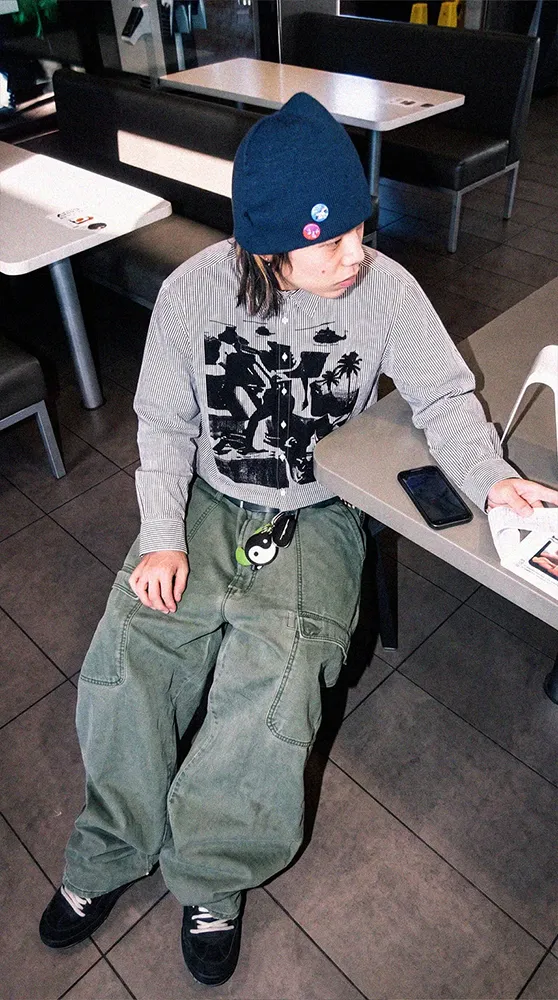
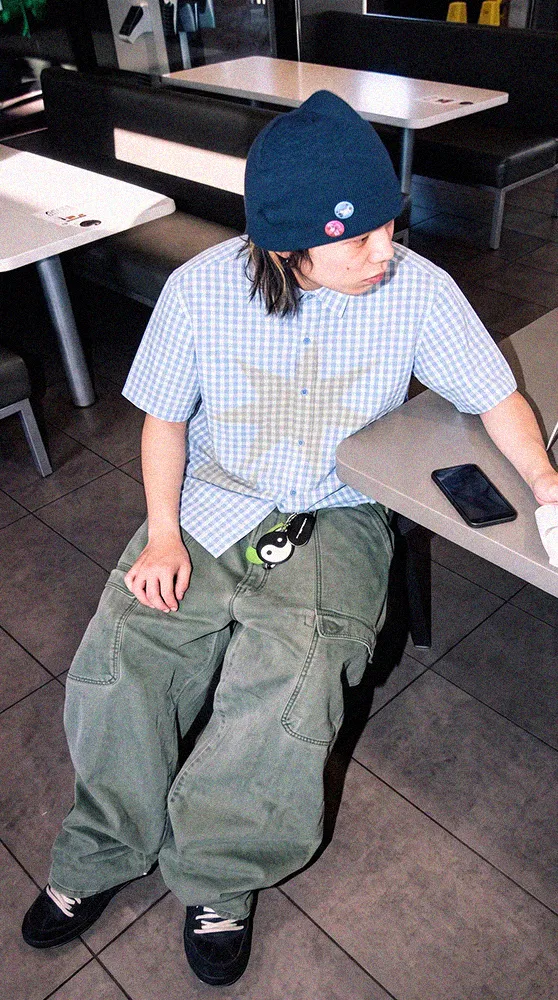
changes + neue seiten

diff --git a/skate-shop/src/styles/global.scss b/skate-shop/src/styles/global.scss
@@ -87,33 +87,36 @@ body *{
     bottom: 20px;
     right: 20px;
     z-index: 5;
-    width: 28px;
-    height: 28px;
-    display: grid;
-    place-content: center;
-    border: 1px solid var(--currentcolor);
-    background-color: rgba(255, 255, 255, 0.2);
-    backdrop-filter: blur(10px);
 
-    svg{
-        width: 16px;
-        height: 16px;
-        fill: var(--currentcolor);
+    .help-toggle{
+        width: 28px;
+        height: 28px;
+        display: grid;
+        place-content: center;
+        border: 1px solid var(--currentcolor);
+        background-color: rgba(255, 255, 255, 0.2);
+        backdrop-filter: blur(10px);
+
+        svg{
+            width: 16px;
+            height: 16px;
+            fill: var(--currentcolor);
+        }
     }
 
-    &:hover{
+    &:hover .help-toggle{
         background-color: var(--currentcolor);
+        border-color: var(--black);
     }
 
-    &:hover svg{
+    &:hover .help-toggle svg{
         fill: var(--white);
     }
 
-    &::after{
-        content: "you're helping test strafe.shop.\A click around, open a product, drop a few things in the cart.\A then tell us what felt off. that's the whole study.";
+    .help-tip{
         position: absolute;
-        bottom: -10px;
-        right: -10px;
+        bottom: 0;
+        right: calc(100% + 10px);
         width: 300px;
         text-align: left;
         background-color: rgba(255, 255, 255, 0.2);
@@ -125,10 +128,9 @@ body *{
         line-height: 1.5;
         color: var(--currentcolor);
         display: none;
-        z-index: -1;
     }
 
-    &:hover::after{
+    &:hover .help-tip{
         display: block;
     }
 }
@@ -790,15 +792,6 @@ body *{
                 background-size: 100% 20%;
                 background-repeat: no-repeat;
 
-                img{
-                    display: block;
-                    width: calc(100% + 20px);
-                    height: 90px;
-                    margin: -10px -10px 8px;
-                    max-width: none;
-                    object-fit: cover;
-                }
-
                 .nav-options{
                     display: flex;
                     justify-content: space-between;
@@ -808,10 +801,19 @@ body *{
                         flex-direction: column;
                         gap: 4px;
                         margin-bottom: 60px;
-                        font-size: 14px;
+                        font-size: 16px;
 
                         a:hover{
                             text-decoration: underline;
+                        }
+                    }
+
+                    .logo{
+                        height: 32px;
+                        width: 32px;
+                        animation: spin 7s infinite linear;
+                        img{
+                            height: 100%;
                         }
                     }
                 }
@@ -1029,6 +1031,14 @@ body *{
     }
 }
 
+@keyframes spin{
+    0%{
+        transform: rotate(0deg);
+    }
+    100%{
+        transform: rotate(360deg);
+    }
+}
 @media(max-width:599px){
     .cursor{
         display: none;

diff --git a/skate-shop/src/data/products.ts b/skate-shop/src/data/products.ts
@@ -336,10 +336,11 @@ export const products: Product[] = [
 		id: 'IDNR24',
 		category: 'tops',
 		sizes: ['s', 'm', 'l', 'xl'],
-		title: 'SHIRT DRK BW',
+		title: 'SHIRT BLU STARS',
 		price: 70,
 		images: [
-			{ type: 'front', src: '/products/IDNR24/produkt12_shirt_black.webp', alt: 'Shirt DRK BW – Ansicht' },
+			{ type: 'front', src: '/products/IDNR24/produkt12_shirt_blue.webp', alt: 'Shirt DRK BW – Ansicht' },
+			{ type: 'back', src: '/products/IDNR24/produkt12_shirt_blue_back.webp', alt: 'Shirt DRK BW – Ansicht' },
 		],
 		description: 'Striped cotton shirt in black and white with an oversized graphic print across the chest. Boxy fit, worn open over a tee or buttoned all the way.',
 		productDetails: '100% cotton poplin, yarn-dyed black and white stripe. Boxy fit, dropped shoulders, spread collar, single-button cuffs, curved hem. Large screen print on the chest. Made in Portugal.',

diff --git a/skate-shop/src/scripts/cart.ts b/skate-shop/src/scripts/cart.ts
@@ -54,7 +54,7 @@ export function initCartUI(panel: HTMLElement, cartBtn: HTMLElement, products: C
 		}
 
 		panel.innerHTML = items.length
-			? `<img class="cart-img" src="/collection/banner_menu.webp" alt="">`
+			? ``
 				+ items.map((p) => `
 				<div class="cart-row">
 					<img src="${p.images[0].src}" alt="">
